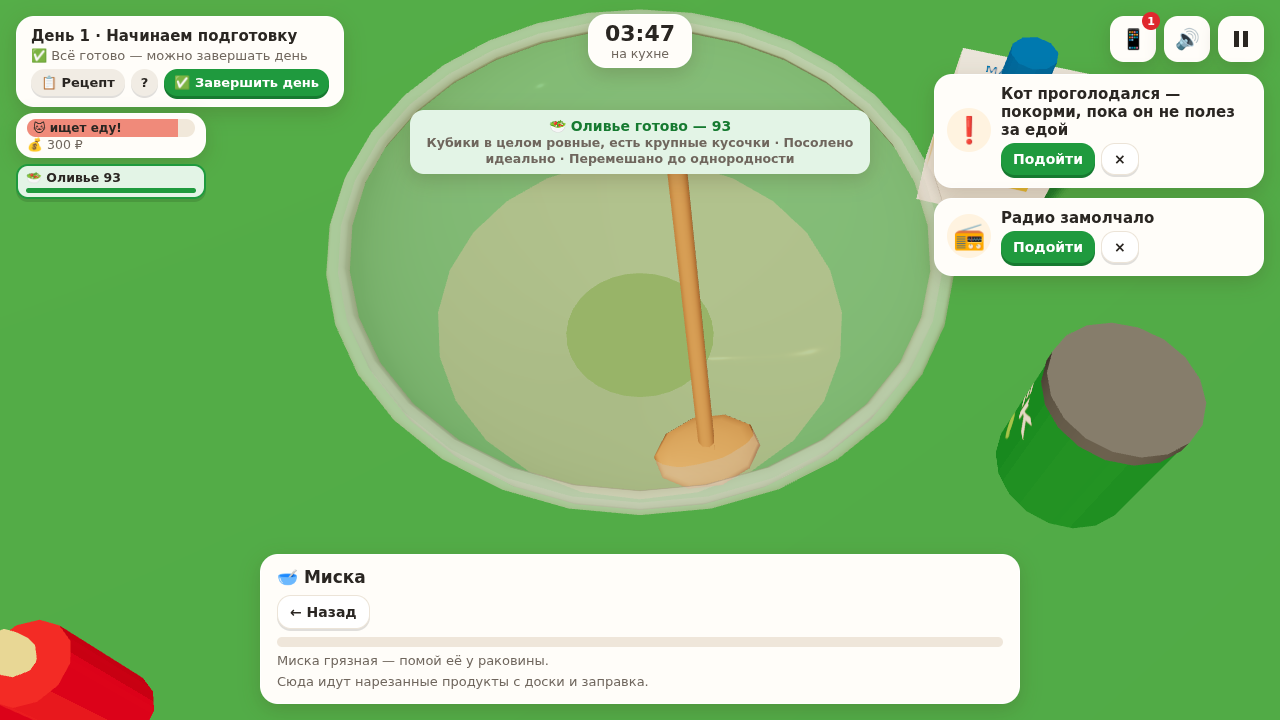
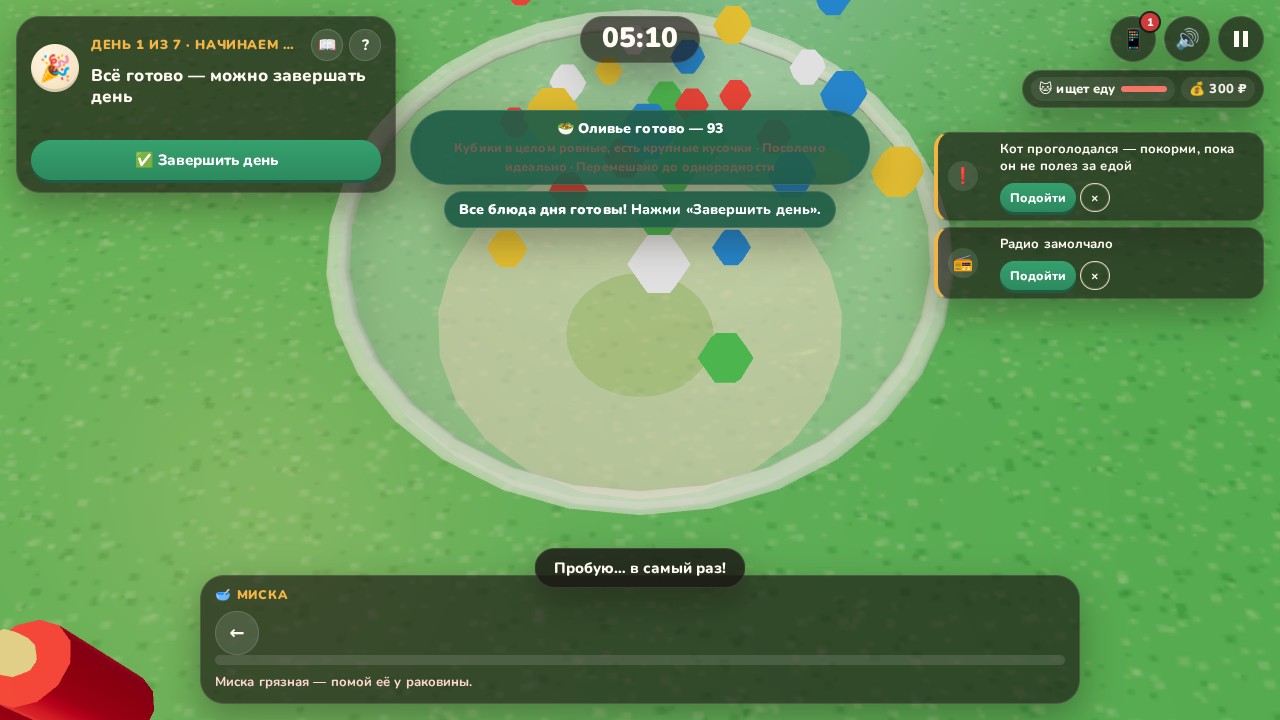
docs: QA 0.6.1 — день 1 мышью 58/0, чистка и порядок вкуса проверены
Design: design/gdd/interaction-spec.md §3.3–3.4

Claude-Session: https://claude.ai/code/session_01FGx6tw6oGSPKftvX4UAwQf

diff --git a/docs/QA_v06.md b/docs/QA_v06.md
@@ -82,3 +82,23 @@ Linux-контейнер без GPU, headless Chromium (Playwright 1.56), WebGL 
 - Дни 2–7 не переделывались под «руками»: там кнопки и прежние жесты (план — `design/gdd/interaction-spec.md`).
 - Вызовов отрисовки в обзоре кухни ~490 при бюджете 250 (основная причина — тени), см. `.claude/skills/perf-budget`.
 - Сценарии дней 2–7 в `scripts/campaign-e2e.mjs` обновлены частично и этой ночью не запускались.
+
+## 0.6.1 — чистка, солёный огурец, «соль → перемешать → проба» (2026-10-08)
+
+- `npm test` — **108 из 108** (+9 тестов рецептов: огурцы, чистка везде, где варятся картофель и яйца,
+  горячее не чистится, мимо продукта не считается, скорость мыши не влияет, мешать без соли нельзя).
+- Темп: уверенный игрок **44,5 мин**, первое прохождение **58,1 мин** (день 1 — 5:49 из 6:00).
+- `scripts/peel-shots.mjs` мышью: картофель и яйца чистятся зигзагом, после чистки сразу открывается нарезка;
+  миска — соль встряхиванием → «Посолено — мешать» → 4,3 оборота → проба. 0 ошибок консоли.
+  **Найдено и исправлено:** при быстром движении мыши кожура на картинке снималась, а прогресс стоял на 4 %
+  (порция «размазывалась» по длине мазка) — для ножа снятие теперь одинаковое на любой скорости, есть
+  регрессионный тест, который падал на старом коде.
+- **Сценарий дня 1 мышью** (`scripts/campaign-e2e.mjs … d1`, 1280×720): **58 OK, 0 FAIL**, 0 ошибок консоли.
+  Новые проверки: горячие яйца не чистятся; яйца и картофель очищены ножом (100 %), сразу после — нарезка;
+  солёные огурцы кубиками; до соли проба недоступна; «Посолено — мешать» даёт ложку; перемешано → фаза пробы,
+  салат ещё не готов; досолила — проба только после ещё одного оборота; «в самый раз»; оливье — **93**.
+  Через `session.goTo` открыты: доска ×2, миска, радио (клик по метке не успел открыть станцию на программном рендере).
+- Снимки: `d1_peel_*`, `d1_board_peelEgg*_1280`, `d1_board_peelPotato*_1280`, `d1_board_pickle_cubes_1280`,
+  `d1_bowl_spice`, `d1_bowl_taste_phase`, `d1_bowl_tasted`, `d1_bowl_season_1280`, `d1_bowl_taste_1280`,
+  `d1_olivier_done_1280`, `d1_result_1280`.
+- Нейтральная ссылка обновлена до 0.6.1.
